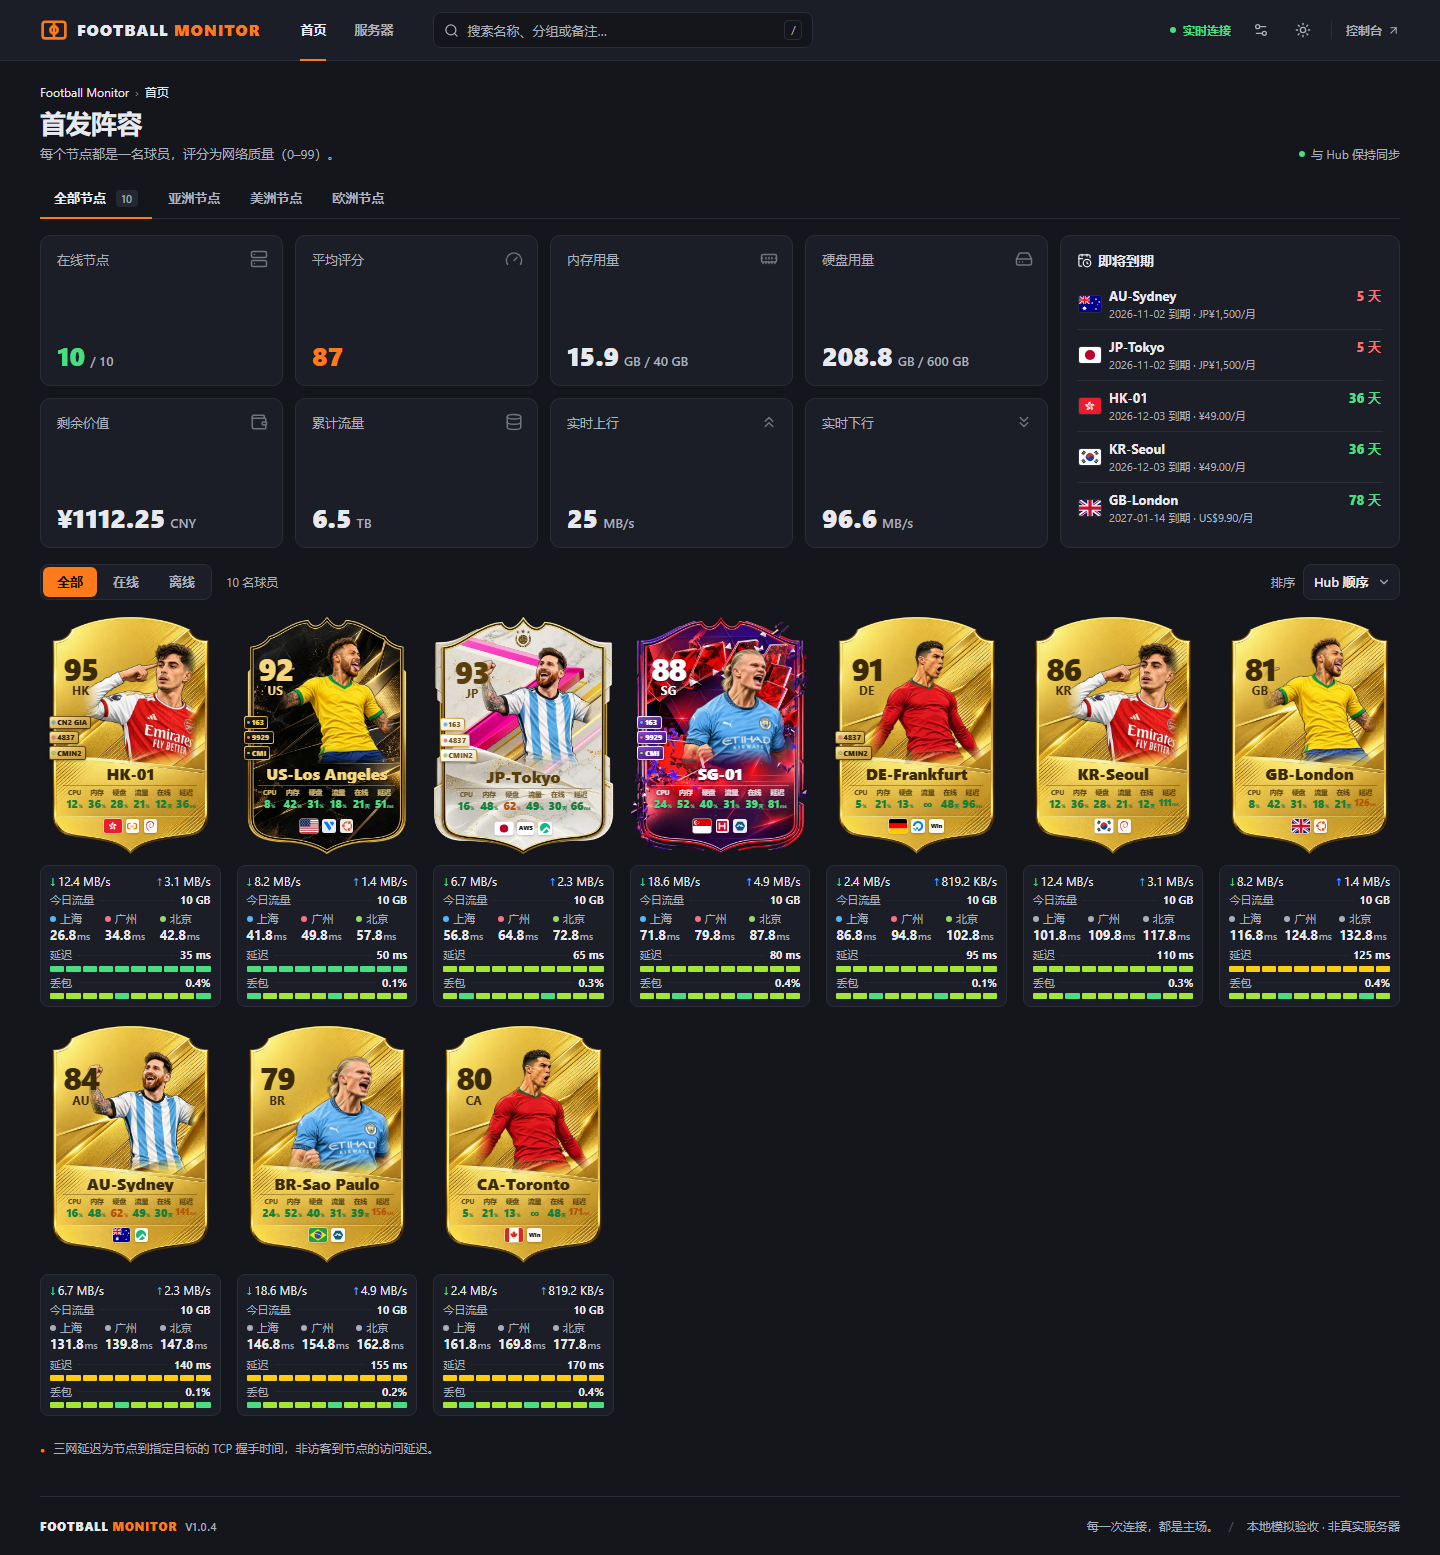
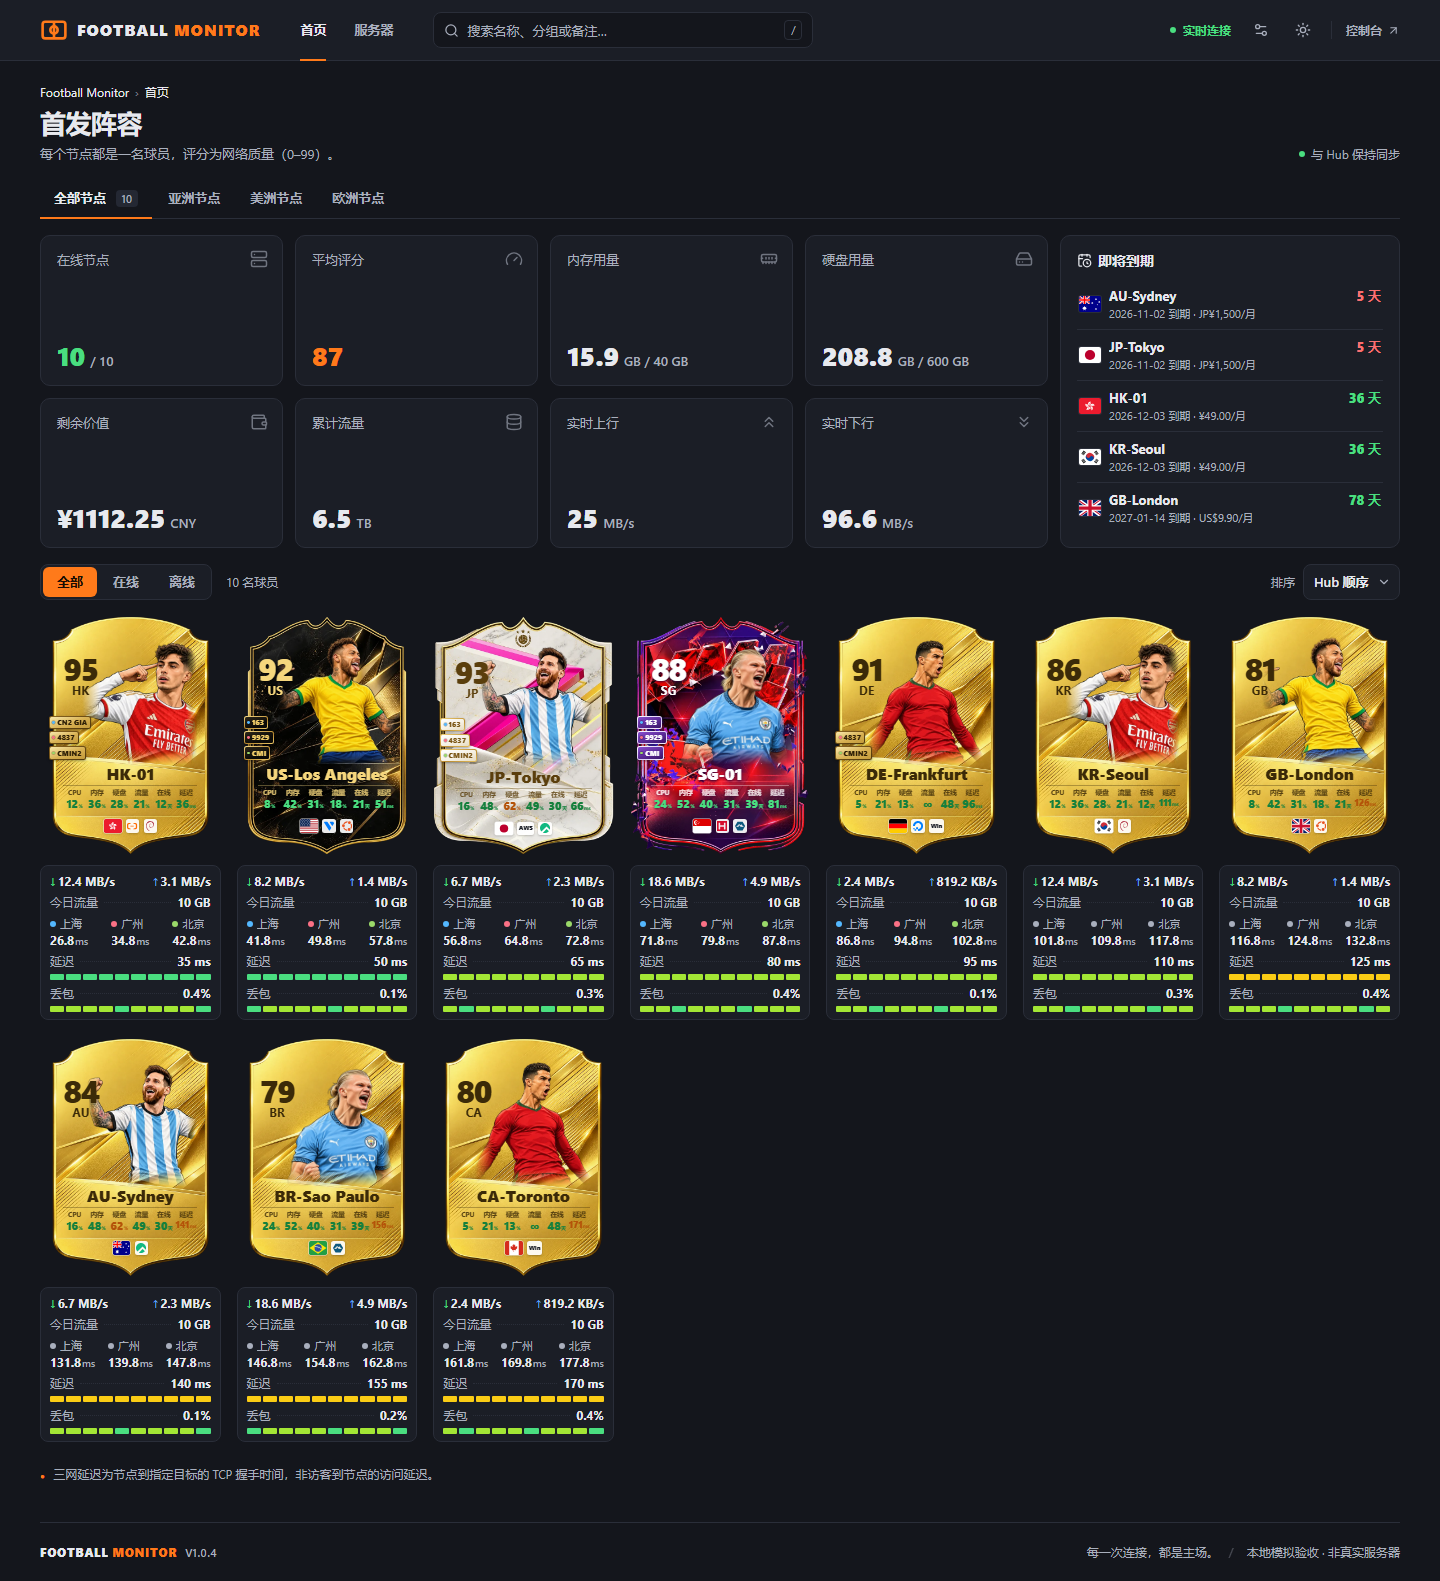
Tidy the card live strip into aligned label/value rows
Every row now reads "label ··· value" at one size, as on the detail
page: the rates get a 速率 label (hidden on narrow strips), latency and
loss sit side by side once each half has room for its bar, and probes
go on one line on wide strips. Probes spread edge to edge so the last
one ends on the same right edge as the values above.

diff --git a/src/styles/cards.css b/src/styles/cards.css
@@ -423,10 +423,11 @@
 }
 
 /* Live strip: page theme tokens, readable in light and dark. */
+/* Every row reads “label ···· value” at one size; values are bold, labels muted. */
 .card-live-strip {
   container-type: inline-size;
   display: grid;
-  gap: 3px;
+  gap: 5px;
   padding: 7px 9px;
   border: 1px solid var(--border);
   border-radius: 8px;
@@ -443,9 +444,24 @@
   min-width: 0;
   white-space: nowrap;
 }
+.strip-speed .strip-bar-value {
+  display: flex;
+  gap: 8px;
+}
 .strip-speed b {
   font-weight: 700;
   margin-right: 2px;
+}
+/* Narrow cards drop the rate label so both rates keep the full width. */
+@container (max-width: 199px) {
+  .strip-speed .strip-bar-label,
+  .strip-speed .strip-bar-leader {
+    display: none;
+  }
+  .strip-speed .strip-bar-value {
+    grid-column: 1 / -1;
+    justify-content: space-between;
+  }
 }
 .strip-down b {
   color: var(--strip-down);
@@ -453,10 +469,11 @@
 .strip-up b {
   color: var(--strip-up);
 }
+/* Probes spread edge to edge, so the last one ends on the same right edge as the values above. */
 .strip-carriers {
-  display: grid;
-  grid-template-columns: repeat(3, minmax(0, 1fr));
-  gap: 4px;
+  display: flex;
+  justify-content: space-between;
+  gap: 6px;
 }
 .strip-carrier {
   display: flex;
@@ -487,8 +504,23 @@
   background: var(--carrier, var(--muted));
 }
 .strip-latency {
-  font-size: 13px;
   font-weight: 700;
+  white-space: nowrap;
+}
+/* Wide enough strips put each probe on one line: “● 移动 416ms”. */
+@container (min-width: 270px) {
+  .strip-carrier {
+    flex-direction: row;
+    align-items: baseline;
+    gap: 5px;
+  }
+  .strip-carrier-name {
+    min-width: 0;
+    font-size: 12px;
+  }
+  .strip-latency {
+    flex-shrink: 0;
+  }
 }
 .strip-unit {
   margin-left: 1px;
@@ -499,13 +531,14 @@
 .strip-empty {
   color: var(--muted);
 }
-.strip-bar {
+.strip-line {
   display: grid;
-  grid-template-columns: auto 1fr auto;
+  grid-template-columns: auto minmax(8px, 1fr) auto;
   align-items: baseline;
   column-gap: 6px;
-  row-gap: 3px;
-  font-size: 11px;
+  row-gap: 4px;
+  min-width: 0;
+  white-space: nowrap;
 }
 .strip-bar-label {
   color: var(--muted);
@@ -516,6 +549,17 @@
 }
 .strip-bar-value {
   font-weight: 700;
+}
+/* Latency and loss sit side by side, as on the detail page, once each half has room for its bar. */
+.strip-bars {
+  display: grid;
+  gap: 5px;
+}
+@container (min-width: 190px) {
+  .strip-bars {
+    grid-template-columns: repeat(2, minmax(0, 1fr));
+    column-gap: 12px;
+  }
 }
 .strip-segs {
   grid-column: 1 / -1;

diff --git a/src/components/CardLiveStrip.vue b/src/components/CardLiveStrip.vue
@@ -92,18 +92,20 @@ const bars = computed(() => {
 </script>
 <template>
   <div class="card-live-strip">
-    <div class="strip-row strip-speed">
-      <span class="strip-down"
-        ><span class="sr-only">下载 </span><b aria-hidden="true">↓</b>{{ rate(metrics?.net_rx) }}</span
-      >
-      <span class="strip-up"
-        ><span class="sr-only">上传 </span><b aria-hidden="true">↑</b>{{ rate(metrics?.net_tx) }}</span
+    <div class="strip-line strip-speed">
+      <span class="strip-bar-label">速率</span><i class="strip-bar-leader" aria-hidden="true" /><span
+        class="strip-bar-value"
+        ><span class="strip-down"
+          ><span class="sr-only">下载 </span><b aria-hidden="true">↓</b>{{ rate(metrics?.net_rx) }}</span
+        ><span class="strip-up"
+          ><span class="sr-only">上传 </span><b aria-hidden="true">↑</b>{{ rate(metrics?.net_tx) }}</span
+        ></span
       >
     </div>
     <!-- Hub-booked counters, so offline nodes keep today's figure. -->
     <div
       v-if="showTraffic"
-      class="strip-bar"
+      class="strip-line strip-bar"
       data-kind="today"
       :title="`↓ ${bytes(node.day_rx)} · ↑ ${bytes(node.day_tx)}`"
     >
@@ -130,16 +132,26 @@ const bars = computed(() => {
           ></span
         >
       </div>
-      <div v-for="bar in bars" :key="bar.kind" class="strip-bar" :data-kind="bar.kind" :data-state="barState">
-        <span class="strip-bar-label">{{ bar.label }}</span
-        ><i class="strip-bar-leader" aria-hidden="true" /><span class="strip-bar-value">{{ bar.value }}</span>
-        <span class="strip-segs" aria-hidden="true"
-          ><i
-            v-for="(color, i) in bar.colors"
-            :key="i"
-            class="strip-seg"
-            :style="{ background: color, '--i': i }"
-        /></span>
+      <div class="strip-bars">
+        <div
+          v-for="bar in bars"
+          :key="bar.kind"
+          class="strip-line strip-bar"
+          :data-kind="bar.kind"
+          :data-state="barState"
+        >
+          <span class="strip-bar-label">{{ bar.label }}</span
+          ><i class="strip-bar-leader" aria-hidden="true" /><span class="strip-bar-value">{{
+            bar.value
+          }}</span>
+          <span class="strip-segs" aria-hidden="true"
+            ><i
+              v-for="(color, i) in bar.colors"
+              :key="i"
+              class="strip-seg"
+              :style="{ background: color, '--i': i }"
+          /></span>
+        </div>
       </div>
     </template>
   </div>
